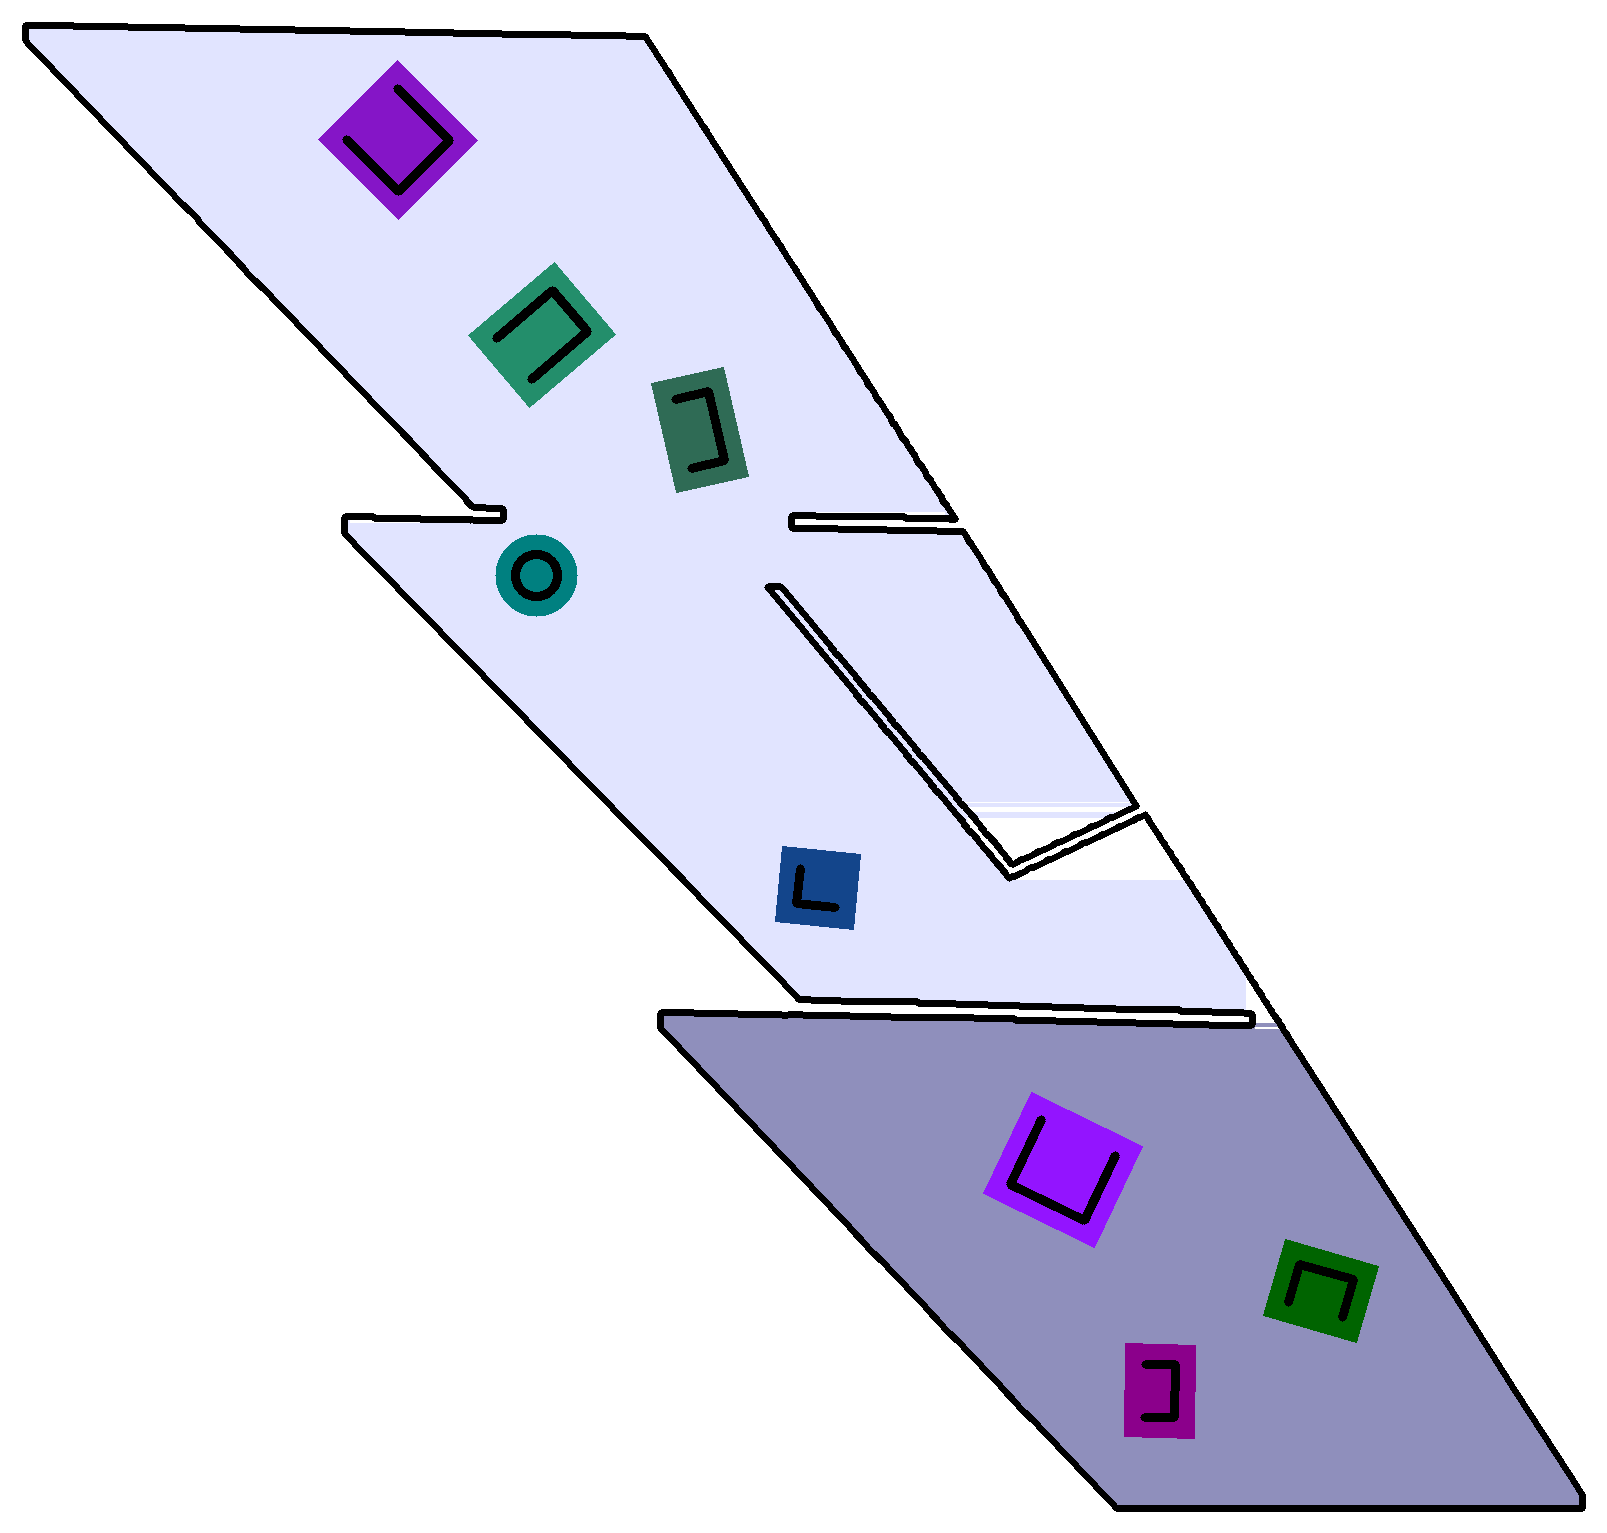
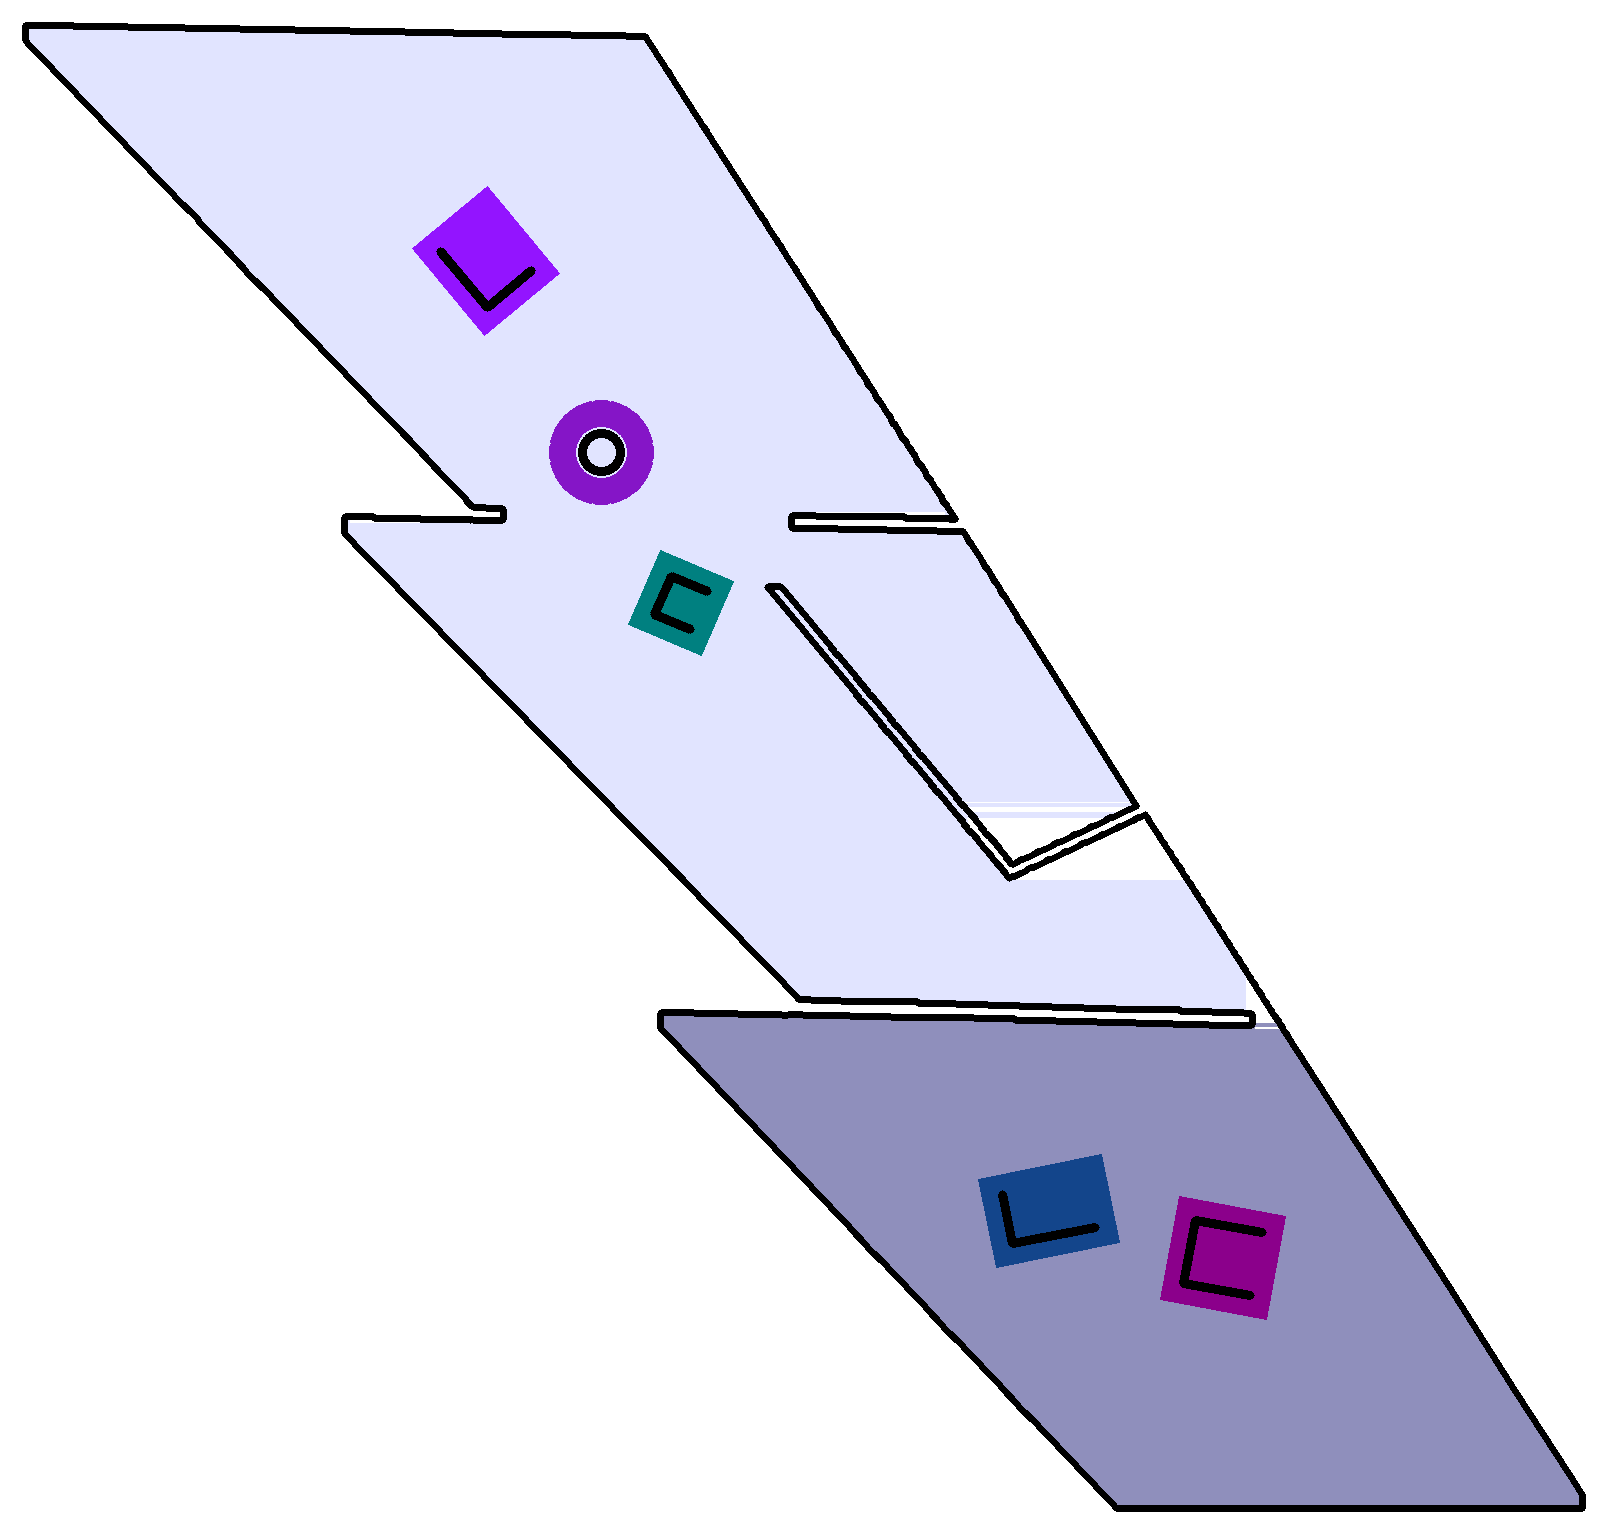
Inflated obstacle bounding boxes and map contours

Changed region(s): [[0.1867, 0.0307, 0.4667, 0.4292], [0.5912, 0.7052, 0.8712, 0.9504], [0.4667, 0.5519, 0.56, 0.6132]]

diff --git a/scripts/high_res_obstacle_generator.py b/scripts/high_res_obstacle_generator.py
@@ -269,7 +269,7 @@ class DataGenerator:
         #             color = (255, 255, 255)
         #             cv2.line(cnt_map ,(int(x), int(y1)), (int(x), int(y2)), color, 1)
         # redraw the layout
-        cv2.drawContours(cnt_map, [verts], 0, 0, 5)
+        cv2.drawContours(cnt_map, [verts], 0, 0, 55)
 
 
 
@@ -455,7 +455,8 @@ class DataGenerator:
                                         [obs_x + (bound_obs_a * cthe - bound_obs_b * sthe), obs_y + (bound_obs_a * sthe + bound_obs_b * cthe)],
                                         [obs_x + (bound_obs_a * cthe - -bound_obs_b * sthe), obs_y + (bound_obs_a * sthe + -bound_obs_b * cthe)]],
                                     np.int32)
-                    cv2.polylines(cnt_map, [bound_rect], True, color, 2)
+                    #cv2.polylines(cnt_map, [bound_rect], True, color, 2)
+                    cv2.polylines(cnt_map, [bound_rect], True, color, thickness=25)
                     cv2.polylines(cnt_map, [rect], isClosed, color,thickness)
 
                     # color_img = cv2.polylines(color_img, [bound_rect], True, color, 2)
@@ -481,18 +482,19 @@ class DataGenerator:
                                             [obs_x + (bound_obs_a * cthe - bound_obs_b * sthe), obs_y + (bound_obs_a * sthe + bound_obs_b * cthe)],
                                             [obs_x + (bound_obs_a * cthe - -bound_obs_b * sthe), obs_y + (bound_obs_a * sthe + -bound_obs_b * cthe)]],
                                         np.int32)
-                        cv2.polylines(cnt_map, [bound_rect1], True, 0, 2)
-                        cv2.polylines(cnt_map, [rect1],isClosed, color,thickness)
+                        #cv2.polylines(cnt_map, [bound_rect1], True, 0, 2)
+                        cv2.polylines(cnt_map, [bound_rect1], True, 0, thickness=25)
+                        cv2.polylines(cnt_map, [rect1],isClosed, color,thickness=25)
 
                         # color_img = cv2.polylines(color_img, [bound_rect1], True, 0, 2)
                         color_img =cv2.fillPoly(color_img, [bound_rect1], box_color)
                         color_img = cv2.polylines(color_img, [rect1],isClosed, color,thickness)
 #                        text = cv2.putText(cnt_map, annotate, org, font,fontScale, color, text_thickness, cv2.LINE_AA)            
                     else:
-                        cv2.circle(cnt_map, (obs_x,obs_y), int(bound_obs_a), 0,thickness=1)
+                        cv2.circle(cnt_map, (obs_x,obs_y), int(bound_obs_a), 0,thickness=25)
                         cv2.circle(cnt_map, (obs_x,obs_y), int(obs_a), 0,thickness=8)
 
-                        cv2.circle(color_img, (obs_x,obs_y), int(bound_obs_a), box_color,thickness=-1)
+                        cv2.circle(color_img, (obs_x,obs_y), int(bound_obs_a), box_color,thickness=25)
                         # cv2.circle(color_img, (obs_x,obs_y), int(bound_obs_a), 0,thickness=1)
                         cv2.circle(color_img, (obs_x,obs_y), int(obs_a), 0,thickness=8)
 #                        text = cv2.putText(cnt_map, annotate, org, font,fontScale, color, text_thickness, cv2.LINE_AA)
